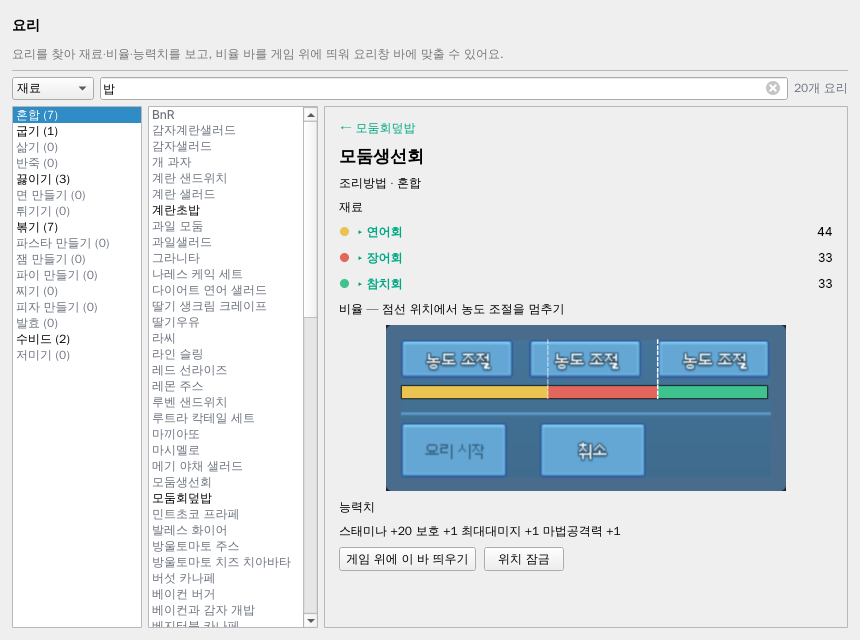
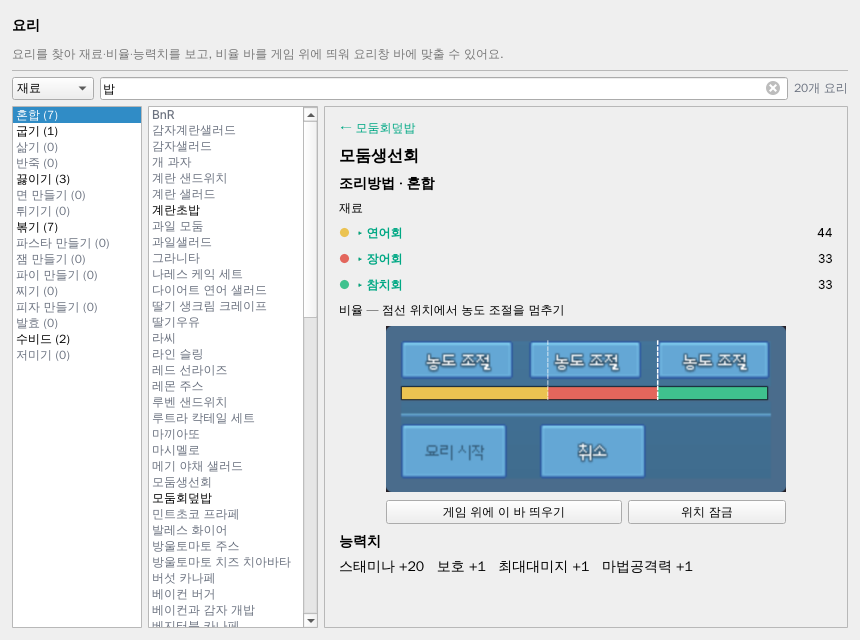
fix: 요리 상세 레이아웃 — 버튼을 비율 그림 아래로, 조리방법·능력치 글자 키움
QA 전달 사용자 화면 피드백(11-19). 순서 재료 → 그림 → 두 버튼(그림 폭) → 능력치,
조리방법·능력치는 타이틀보다 작고 본문보다 크게(탭 글꼴 기준, 큰 글꼴에서도 위계 유지).

Claude-Session: https://claude.ai/code/session_01SbFuD9LBQUw7gFTz2Mmv9g

diff --git a/src/mabinogi_addon/ui/cooking_tab.py b/src/mabinogi_addon/ui/cooking_tab.py
@@ -10,8 +10,8 @@
 """
 from __future__ import annotations
 
-from PySide6.QtCore import Qt, QTimer
-from PySide6.QtGui import QBrush, QColor, QGuiApplication
+from PySide6.QtCore import QEvent, Qt, QTimer
+from PySide6.QtGui import QBrush, QColor, QFont, QFontInfo, QGuiApplication
 from PySide6.QtWidgets import (
     QComboBox,
     QFrame,
@@ -34,6 +34,8 @@ from .palette import color as pcolor
 from .widgets import FeatureHeader, section_label
 
 TITLE = "요리"
+# 글자 위계(사용자 피드백 11-19): 본문 글꼴 기준 +px — 타이틀 > 조리방법·능력치 > 본문. 큰 글꼴에서도 위계 유지(스타일시트 px 고정 안 씀)
+TITLE_UP, SUB_UP = 4, 2
 GAUGE_VIEW_W = 400  # 상세 요리창 그림 표시 너비(원본 패널 530px을 줄여 상세 칸에 맞춤 — 시안 detail_gauge_mock.png)
 DESCRIPTION = "요리를 찾아 재료·비율·능력치를 보고, 비율 바를 게임 위에 띄워 요리창 바에 맞출 수 있어요."
 _DISH = Qt.ItemDataRole.UserRole
@@ -241,14 +243,17 @@ class CookingTab(QWidget):
         if self.history.peek():
             self.back_btn = QPushButton(f"← {self.history.peek()}")
             self.back_btn.setFlat(True)
+            self.back_btn.setFont(self._font(0, QFont.Weight.Normal))  # 스타일시트를 줘도 큰 글꼴 그대로
             self.back_btn.setCursor(Qt.CursorShape.PointingHandCursor)
             self.back_btn.setStyleSheet(f"text-align:left; color:{pcolor('accent')}; padding:0;")
             self.back_btn.clicked.connect(self.go_back)
             lay.addWidget(self.back_btn, 0, Qt.AlignmentFlag.AlignLeft)
         name = QLabel(dish.name)
-        name.setStyleSheet("font-size:17px; font-weight:700;")
+        name.setFont(self._font(TITLE_UP, QFont.Weight.Bold))
         lay.addWidget(name)
-        lay.addWidget(QLabel(f"조리방법 · {dish.method}"))
+        self.method_label = QLabel(f"조리방법 · {dish.method}")
+        self.method_label.setFont(self._font(SUB_UP, QFont.Weight.Bold))  # 타이틀보다 작고 본문보다 크게(중요 정보)
+        lay.addWidget(self.method_label)
         lay.addWidget(section_label("재료"))
         kind, query = self.kind.currentText(), self.query_text()
         for i, ing in enumerate(dish.recipe):
@@ -257,34 +262,52 @@ class CookingTab(QWidget):
         lay.addWidget(section_label("비율 — 점선 위치에서 농도 조절을 멈추기"))
         self.gauge = QLabel()
         self.gauge.setPixmap(detail_pixmap(dish).scaledToWidth(GAUGE_VIEW_W, Qt.TransformationMode.SmoothTransformation))
-        self.gauge.setAlignment(Qt.AlignmentFlag.AlignCenter)
-        lay.addWidget(self.gauge)
-        lay.addWidget(section_label("능력치"))
-        parts = []
-        for stat, value in dish.status:
-            text = f"{stat} {value:+g}"
-            if kind == "능력치" and query and cooking.norm(stat) == cooking.norm(query):
-                text = f"<span style='color:{pcolor('accent')}; font-weight:700;'>{text}</span>"
-            parts.append(text)
-        self.stats = QLabel("  ".join(parts) or "없음")
-        self.stats.setTextFormat(Qt.TextFormat.RichText)
-        self.stats.setWordWrap(True)
-        lay.addWidget(self.stats)
-        buttons = QHBoxLayout()
+        self.gauge.setFixedSize(self.gauge.pixmap().size())  # 칸이 낮아도 그림이 눌려 잘리지 않게(상세는 스크롤)
+        lay.addWidget(self.gauge, 0, Qt.AlignmentFlag.AlignHCenter)
+        # 비율 그림 바로 아래, 그림 폭 안에 두 버튼(사용자 피드백 11-19: 재료 → 그림 → 버튼 → 능력치)
+        self.overlay_buttons = QWidget()
+        self.overlay_buttons.setFixedWidth(GAUGE_VIEW_W)
+        buttons = QHBoxLayout(self.overlay_buttons)
+        buttons.setContentsMargins(0, 0, 0, 0)
         self.overlay_btn = QPushButton("게임 위에 이 바 띄우기")
         self.overlay_btn.setCheckable(True)
         self.overlay_btn.setChecked(self._overlay_on)
         self.overlay_btn.toggled.connect(self.set_overlay)
-        buttons.addWidget(self.overlay_btn)
+        buttons.addWidget(self.overlay_btn, 3)
         self.lock_btn = QPushButton("위치 잠금")
         self.lock_btn.setCheckable(True)
         self.lock_btn.setChecked(config.load_cooking_overlay()["locked"])
         self.lock_btn.setToolTip("잠그면 바를 클릭해도 게임으로 통과해요. 풀면 끌어서 옮기고 휠로 크기를 바꿔요.")
         self.lock_btn.toggled.connect(self._set_locked)
-        buttons.addWidget(self.lock_btn)
-        buttons.addStretch(1)
-        lay.addLayout(buttons)
+        buttons.addWidget(self.lock_btn, 2)
+        lay.addWidget(self.overlay_buttons, 0, Qt.AlignmentFlag.AlignHCenter)
+        stats_title = QLabel("능력치")
+        stats_title.setFont(self._font(SUB_UP, QFont.Weight.Bold))
+        lay.addWidget(stats_title)
+        parts = []
+        for stat, value in dish.status:
+            text = f"{stat} {value:+g}"
+            if kind == "능력치" and query and cooking.norm(stat) == cooking.norm(query):
+                text = f"<span style='color:{pcolor('accent')}; font-weight:800;'>{text}</span>"
+            parts.append(text)
+        self.stats = QLabel("&nbsp;&nbsp;&nbsp;".join(parts) or "없음")
+        self.stats.setTextFormat(Qt.TextFormat.RichText)
+        self.stats.setWordWrap(True)
+        self.stats.setFont(self._font(SUB_UP, QFont.Weight.DemiBold))  # 능력치 값이 잘 보이게(h3 정도)
+        lay.addWidget(self.stats)
         lay.addStretch(1)
+
+    def _font(self, up: int, weight: QFont.Weight) -> QFont:
+        """이 탭 글꼴(사용자 큰 글꼴 포함) 기준으로 +up px·굵기."""
+        font = QFont(self.font())
+        font.setPixelSize(QFontInfo(self.font()).pixelSize() + up)
+        font.setWeight(weight)
+        return font
+
+    def changeEvent(self, event) -> None:
+        super().changeEvent(event)
+        if event.type() == QEvent.Type.FontChange and hasattr(self, "detail_layout"):
+            self._render_detail()  # 글꼴 크기가 바뀌면 위계를 새 기준으로
 
     def _ingredient_row(self, i: int, ing: cooking.Ingredient, highlight: bool) -> QWidget:
         row = QWidget()
@@ -294,22 +317,25 @@ class CookingTab(QWidget):
         dot.setStyleSheet(f"color:{color(i).name()};")
         h.addWidget(dot)
         target = cooking.ingredient_dish(ing.name, self._index)
-        weight = "font-weight:700;" if highlight else ""
+        strong = self._font(0, QFont.Weight.Bold)
         if target is not None:
             btn = QPushButton(f"▸ {ing.name}")
             btn.setFlat(True)
             btn.setCursor(Qt.CursorShape.PointingHandCursor)
             btn.setToolTip(f"{target.name}(으)로 이동")
-            btn.setStyleSheet(f"text-align:left; color:{pcolor('accent')}; font-weight:700; padding:0;")
+            btn.setFont(strong)
+            btn.setStyleSheet(f"text-align:left; color:{pcolor('accent')}; padding:0;")
             btn.clicked.connect(lambda _=False, n=ing.name: self.open_ingredient(n))
             h.addWidget(btn)
         else:
             label = QLabel(ing.name)
-            label.setStyleSheet(weight)
+            if highlight:
+                label.setFont(strong)
             h.addWidget(label)
         h.addStretch(1)
         number = QLabel(f"{ing.ratio:g}")
-        number.setStyleSheet(weight)
+        if highlight:
+            number.setFont(strong)
         h.addWidget(number)
         if highlight:  # 검색한 재료 줄 강조
             row.setStyleSheet("background: rgba(0,201,162,0.14); border-radius:4px;")

diff --git a/tests/test_cooking.py b/tests/test_cooking.py
@@ -157,11 +157,39 @@ def test_ingredient_search_highlights_row():
     assert [row.property("searchHit") for row in tab.ingredient_rows] == [False, True, False]
     tab.kind.setCurrentText("능력치")
     tab.stat.setCurrentIndex(tab.stat.findData("마나"))
-    assert "font-weight:700;'>마나 +25" in tab.stats.text()
+    assert "font-weight:800;'>마나 +25" in tab.stats.text()
     tab.shutdown()
 
 
 # ---- 재료 이동·되돌아가기 ----
+def test_detail_order_buttons_right_under_gauge():
+    """사용자 피드백 11-19: 재료 → 비율 그림 → 두 버튼(그림 폭) → 능력치, 조리방법·능력치는 타이틀보다 작고 본문보다 큼."""
+    from PySide6.QtGui import QFontInfo
+
+    from mabinogi_addon.ui.cooking_tab import GAUGE_VIEW_W, CookingTab
+    tab = CookingTab()
+    tab.select("모둠회덮밥")
+    widgets = [tab.detail_layout.itemAt(i).widget() for i in range(tab.detail_layout.count())]
+    at = widgets.index(tab.gauge)
+    assert widgets[at + 1] is tab.overlay_buttons
+    assert widgets[at + 2].text() == "능력치" and widgets[at + 3] is tab.stats
+    assert tab.overlay_btn.parent() is tab.overlay_buttons and tab.lock_btn.parent() is tab.overlay_buttons
+    assert tab.overlay_buttons.width() == GAUGE_VIEW_W == tab.gauge.pixmap().width()
+    for pixels in (None, 20):  # 기본·큰 글꼴 모두 타이틀 > 조리방법·능력치 > 본문
+        if pixels:
+            font = tab.font()
+            font.setPixelSize(pixels)
+            tab.setFont(font)
+        widgets = [tab.detail_layout.itemAt(i).widget() for i in range(tab.detail_layout.count())]
+        body = QFontInfo(tab.font()).pixelSize()
+        title = next(w for w in widgets if w is not None and getattr(w, "text", lambda: "")() == "모둠회덮밥")
+        stats_title = widgets[widgets.index(tab.stats) - 1]
+        size = [QFontInfo(w.font()).pixelSize() for w in (title, tab.method_label, stats_title, tab.stats)]
+        assert size[0] > size[1] == size[2] == size[3] > body
+        assert body == (pixels or body)
+    tab.shutdown()
+
+
 def test_history_back_in_order_and_no_cycle():
     h = cooking.History()
     h.enter("A", "B")

diff --git a/docs/status.md b/docs/status.md
@@ -41,6 +41,9 @@
   `ui/main_window.py`·`feature_copy.py`(탭·설명·종료 시 닫기) → `tests/test_navigation.py`·`test_cursor_fx.py`(계산기 탭 순서)·`test_navigation_all_widths.py`. 게임 위 바 표시 = 게임 또는 이 앱이 앞에 있을 때(500ms), 전투 일시정지와 무관.
   결과: 관련 134 + 폭 8 통과, 배포 검사(0.53.0, CI 글꼴) 352 통과. 새 자산·모듈 → Windows 실행 확인 전 게시 권하지 않음.
   main 5b8a3fb 푸시 → QA 세션(session_01QCaG6uqY7nLBoMh5YcDzD4)에 확인 요청 보냄(11-19).
+  **QA 레이아웃 피드백 반영(11-19, 사용자 화면 피드백)**: 상세 순서 재료 → 비율 그림 → 두 버튼(그림 폭 400px 안에 3:2) → 능력치. 조리방법·'능력치' 제목·능력치 값 = 본문 +2px(굵게/중간 굵게), 타이틀 = 본문 +4px —
+  스타일시트 px 고정 대신 탭 글꼴 기준 QFont(큰 글꼴 20px에서도 위계 유지, 글꼴 바뀌면 다시 그림), 그림은 고정 크기(칸이 낮으면 상세가 스크롤, 눌려 잘리지 않음).
+  `ui/cooking_tab.py` → `tests/test_cooking.py`(버튼이 그림 바로 다음·폭 = 그림 폭, 기본·20px 모두 타이틀 > 조리방법 = 능력치 > 본문). 렌더 tab_search·tab_ingredient(+_20px). 관련 112 통과, 배포 검사 353 통과.
 - **봇 앱 버전 저장·표시 → 봇 DEV 세션(session_01R3AWN43b3yw3h5TNfWuuAs)에 전달(11-19, 기획 세션)** — sync.json app 값 저장(app_version 컬럼)·!현황 표시·VM 재시작. 앱 쪽 featureUsage 미등록 사용자 버그는 2d40b99로 수정, v0.52.3에 포함(태그 확인).
 - **v0.52.3 게시 완료(11-19 01:59 UTC = 10:59 KST, QA 세션 직접 실행, 사용자 '확인하고 실행에 문제없으면 바로 배포')** — 범위(v0.52.2 대비 src): 북미 차단 개발 되돌림(0f336f63·598598a6 — overseas_guard 등 전부 없어짐),
   북미 안내 문구 강화·판정 '정확히 Mabinogi'·실행마다 1번(8da151ab), featureUsage 실행 판정에 창 판정 추가(2d40b99e). QA: 관련 86 통과, 배포 검사 CI 글꼴 348 통과, preflight 0, 홈 띠 렌더 잘림 없음.
